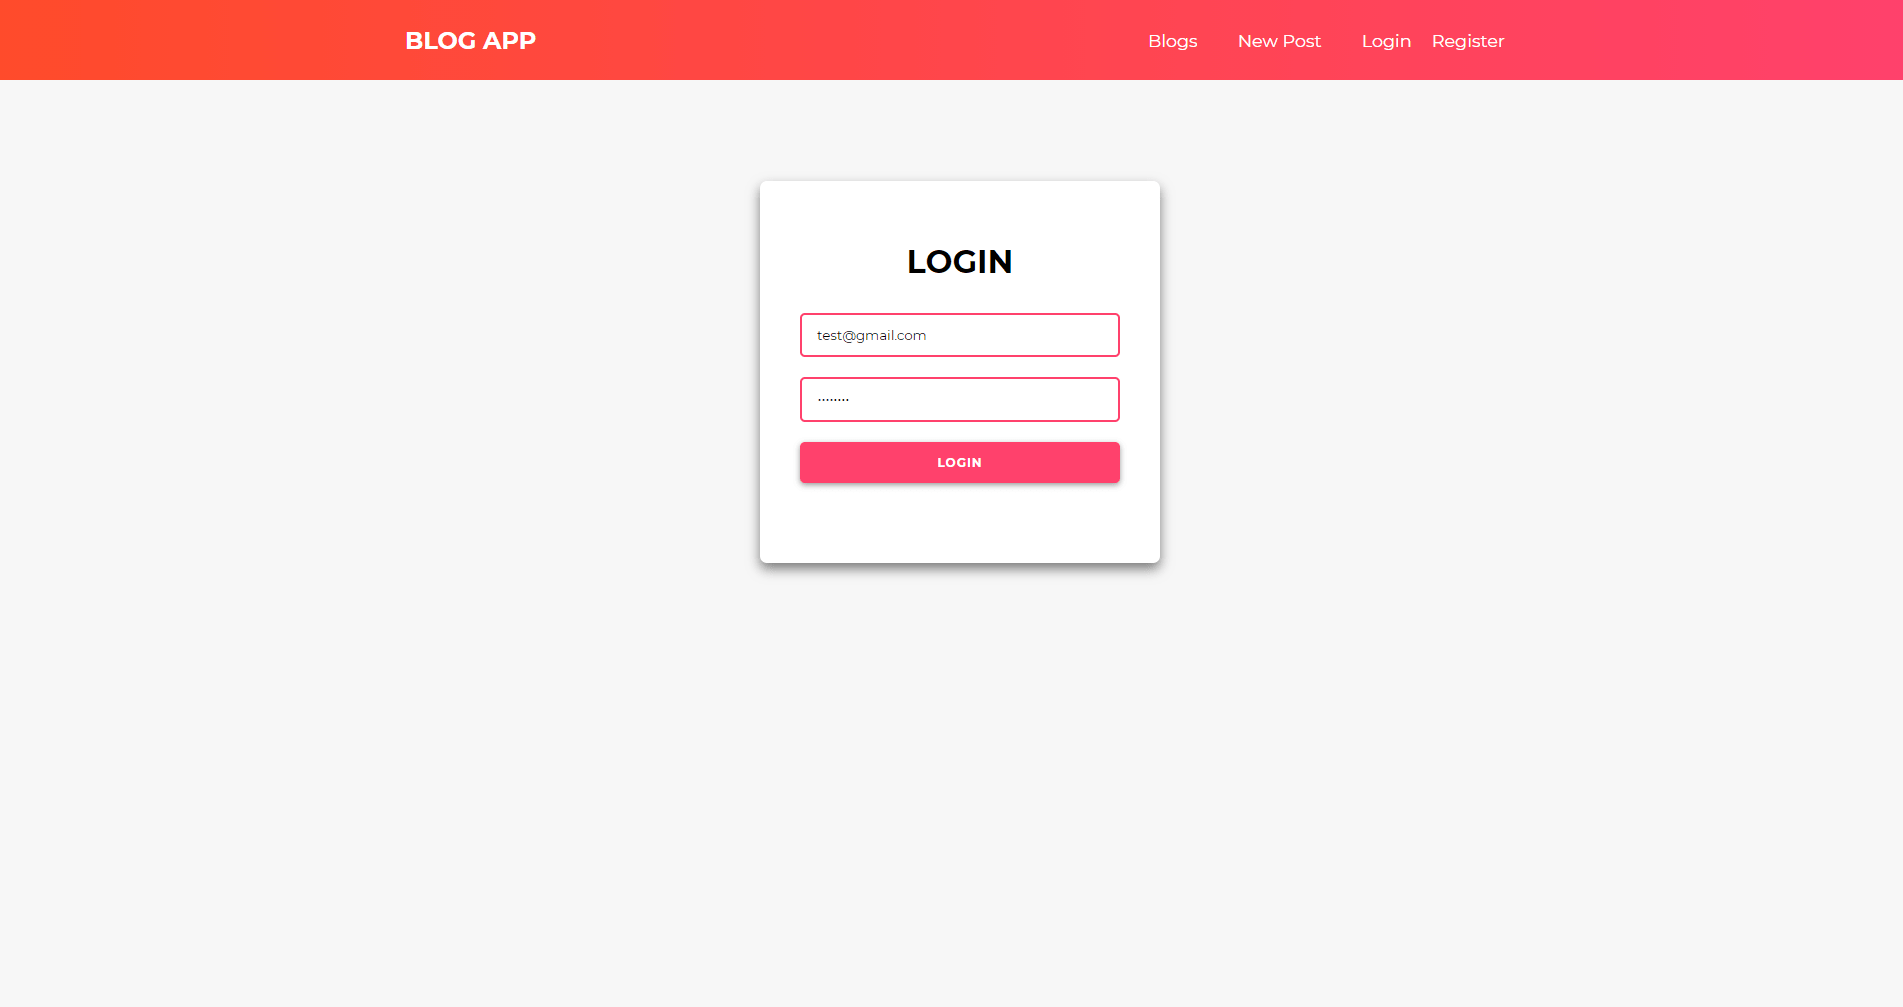
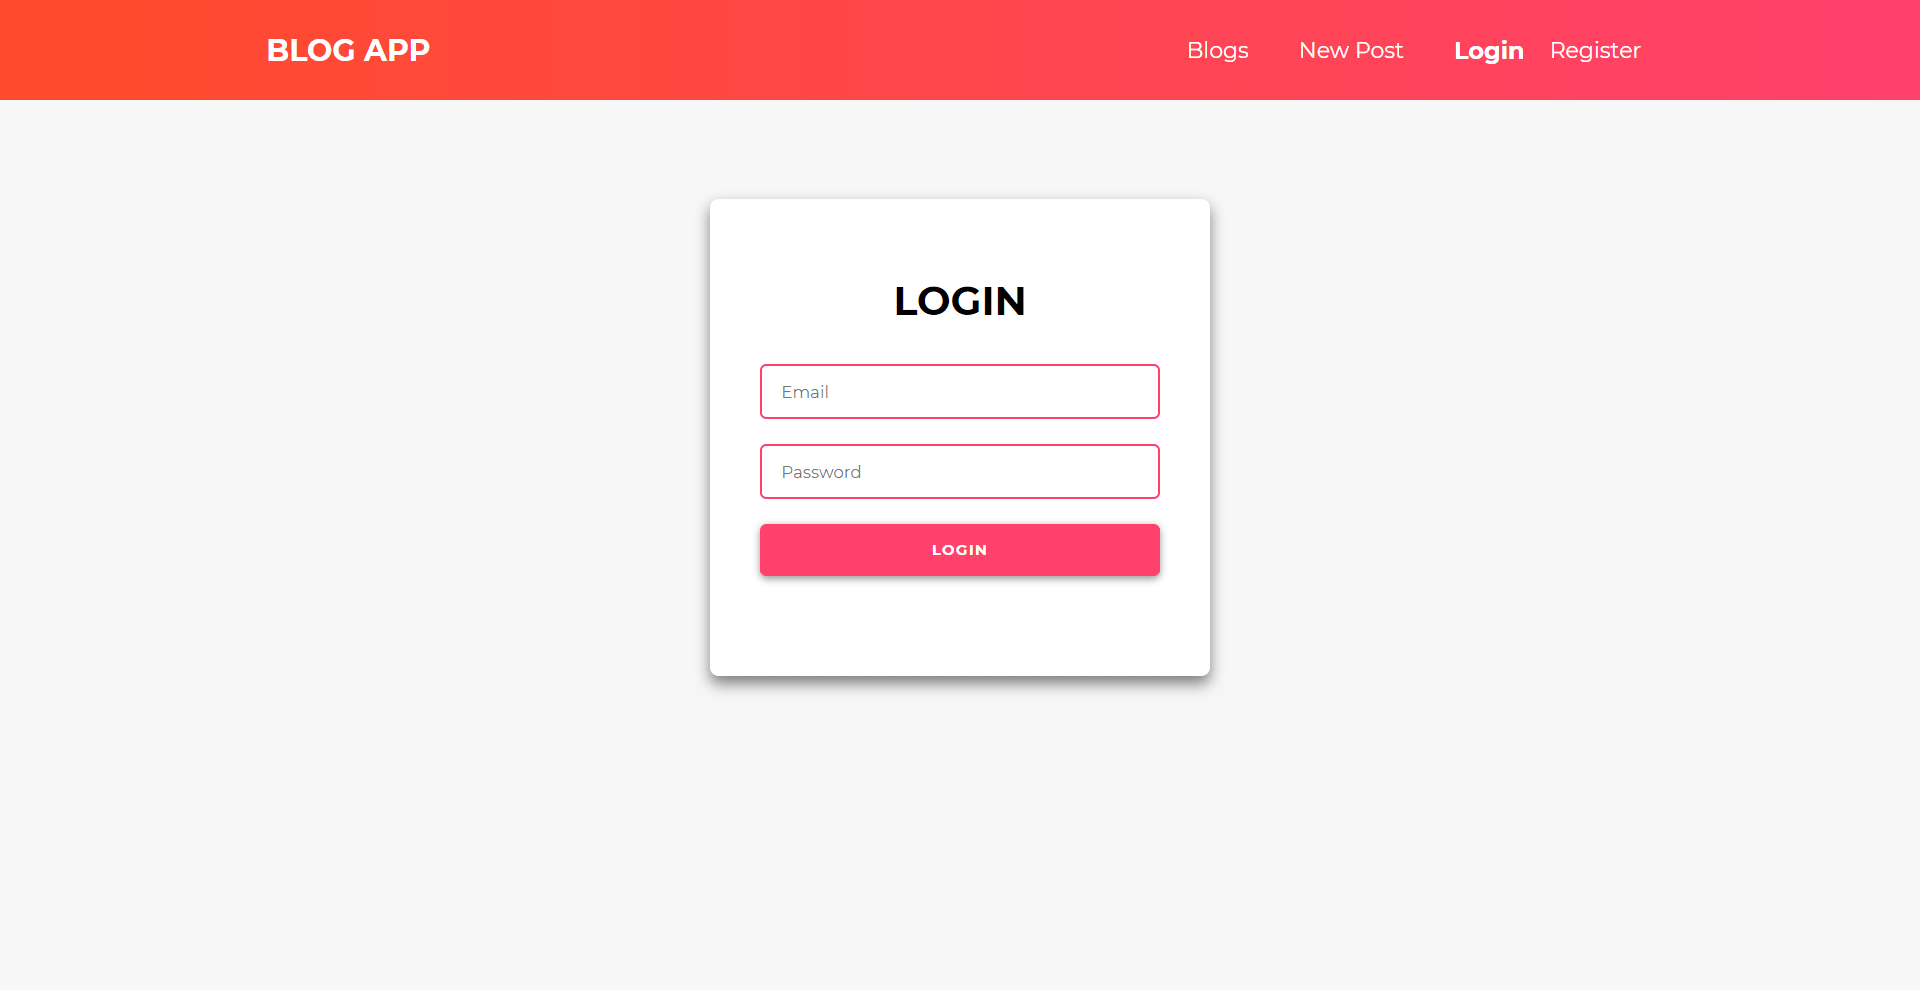
add imageUrl field and responsive navbar close

Changed region(s): [[0.341, 0.2121, 0.6511, 0.697], [0.0, 0.0303, 1.0, 0.1212]]

diff --git a/src/components/NavbarItems.jsx b/src/components/NavbarItems.jsx
@@ -1,17 +1,21 @@
 import React from "react";
-import { Link } from "react-router-dom";
+import { NavLink } from "react-router-dom";
 import styled from "styled-components";
 import Button from "./styled/Button";
 
 const Item = styled.li``;
 
-const NavLink = styled(Link)`
+const NavBarLink = styled(NavLink)`
   text-decoration: none;
   color: white;
   padding: 0 10px 0 10px;
   font-size: 1.1em;
   transition: 0.1s ease;
   &:hover {
+    font-weight: bold;
+    font-size: 1.2em;
+  }
+  &.${(props) => props.activeClassName} {
     font-weight: bold;
     font-size: 1.2em;
   }
@@ -23,14 +27,27 @@ const Centered = styled.div`
   align-content: ${(props) => !props.isOverlay && "space-space-around"};
 `;
 
-const NavbarItems = ({ onClick, user, isOverlay = false }) => {
+const NavbarItems = ({ onClick, user, isOverlay = false, toggleNav }) => {
   return (
     <>
       <Item>
-        <NavLink to="/">Blogs</NavLink>
+        <NavBarLink
+          onClick={() => toggleNav(false)}
+          activeClassName="active"
+          to="/"
+          exact={true}
+        >
+          Blogs
+        </NavBarLink>
       </Item>
       <Item>
-        <NavLink to="/new-post">New Post</NavLink>
+        <NavBarLink
+          onClick={() => toggleNav(false)}
+          activeClassName="active"
+          to="/new-post"
+        >
+          New Post
+        </NavBarLink>
       </Item>
       {user ? (
         <Centered isOverlay={isOverlay}>
@@ -53,10 +70,22 @@ const NavbarItems = ({ onClick, user, isOverlay = false }) => {
       ) : (
         <>
           <Item>
-            <NavLink to="/login">Login</NavLink>
+            <NavBarLink
+              onClick={() => toggleNav(false)}
+              activeClassName="active"
+              to="/login"
+            >
+              Login
+            </NavBarLink>
           </Item>
           <Item>
-            <NavLink to="/register">Register</NavLink>
+            <NavBarLink
+              onClick={() => toggleNav(false)}
+              activeClassName="active"
+              to="/register"
+            >
+              Register
+            </NavBarLink>
           </Item>
         </>
       )}

diff --git a/src/pages/EditPage.jsx b/src/pages/EditPage.jsx
@@ -6,11 +6,11 @@ import { useHistory, useParams } from "react-router";
 import styled from "styled-components";
 import ErrorText from "../components/styled/ErrorText";
 import Button from "../components/styled/Button";
-import Input from "../components/styled/Input";
 import TextArea from "../components/styled/TextArea";
 import { PostSchema } from "../schemas/postSchema";
 import { getPost, updatePost } from "../store/slices/postSlice";
 import showNotification from "../utils/notification";
+import InputGroup from "../components/InputGroup";
 
 const BlogContainer = styled.div`
   margin-top: 15px;
@@ -48,7 +48,7 @@ const EditPostPage = () => {
 
   const onSubmit = (val) => {
     const isSuccess = dispatch(updatePost({ data: val, id: param.id }));
-    if (isSuccess) setTimeout(() => history.push("/"), 100);
+    if (isSuccess) setTimeout(() => history.push("/"), 500);
   };
 
   useEffect(() => {
@@ -66,6 +66,7 @@ const EditPostPage = () => {
     if (post) {
       setValue("title", post.title.toUpperCase());
       setValue("content", post.content);
+      setValue("imageUrl", post.imageUrl || "");
     }
   }, [post, setValue]);
 
@@ -80,9 +81,18 @@ const EditPostPage = () => {
       <BlogContainer>
         <h1>Edit Post</h1>
         <form onSubmit={handleSubmit(onSubmit)}>
-          <label>Title</label>
-          <Input {...register("title")} autofocus />
-          <ErrorText error={errors["title"]} />
+          <InputGroup
+            register={register}
+            errors={errors}
+            name="title"
+            label="Title"
+          />
+          <InputGroup
+            register={register}
+            errors={errors}
+            name="imageUrl"
+            label="Image URL"
+          />
           <label>Content</label>
           <TextArea {...register("content")} rows="10"></TextArea>
           <ErrorText error={errors["content"]} />

diff --git a/src/pages/NewPostPage.jsx b/src/pages/NewPostPage.jsx
@@ -6,11 +6,11 @@ import { useHistory } from "react-router";
 import styled from "styled-components";
 import ErrorText from "../components/styled/ErrorText";
 import Button from "../components/styled/Button";
-import Input from "../components/styled/Input";
 import TextArea from "../components/styled/TextArea";
 import { PostSchema } from "../schemas/postSchema";
 import { insertPost } from "../store/slices/postSlice";
 import showNotification from "../utils/notification";
+import InputGroup from "../components/InputGroup";
 
 const BlogContainer = styled.div`
   margin-top: 15px;
@@ -43,7 +43,7 @@ const NewPostPage = () => {
 
   const onSubmit = (val) => {
     const isSuccess = dispatch(insertPost(val));
-    if (isSuccess) setTimeout(() => history.push("/"), 100);
+    if (isSuccess) setTimeout(() => history.push("/"), 500);
   };
 
   useEffect(() => {
@@ -64,9 +64,18 @@ const NewPostPage = () => {
       <BlogContainer>
         <h1>New Post</h1>
         <form onSubmit={handleSubmit(onSubmit)}>
-          <label>Title</label>
-          <Input {...register("title")} autofocus />
-          <ErrorText error={errors["title"]} />
+          <InputGroup
+            register={register}
+            errors={errors}
+            name="title"
+            label="Title"
+          />
+          <InputGroup
+            register={register}
+            errors={errors}
+            name="imageUrl"
+            label="Image URL"
+          />
           <label>Content</label>
           <TextArea {...register("content")} rows="10"></TextArea>
           <ErrorText error={errors["content"]} />

diff --git a/src/pages/BlogPage.jsx b/src/pages/BlogPage.jsx
@@ -7,6 +7,9 @@ import Spinner from "../components/Spinners";
 import Button from "../components/styled/Button";
 import { deletePost, getPost } from "../store/slices/postSlice";
 
+const DEFAULT_IMG =
+  "https://c4.wallpaperflare.com/wallpaper/826/524/865/3-316-16-9-aspect-ratio-s-sfw-wallpaper-preview.jpg";
+
 const BlogContainer = styled.div`
   margin-top: 15px;
   border-radius: 7px;
@@ -31,7 +34,7 @@ const BlogPage = () => {
   const handleDelete = () => {
     console.log(param.id);
     const isSuccess = dispatch(deletePost(param.id));
-    if (isSuccess) setTimeout(() => history.push("/"), 100);
+    if (isSuccess) setTimeout(() => history.push("/"), 500);
   };
 
   return (
@@ -62,8 +65,11 @@ const BlogPage = () => {
               </>
             )}
             <img
-              src="https://c4.wallpaperflare.com/wallpaper/826/524/865/3-316-16-9-aspect-ratio-s-sfw-wallpaper-preview.jpg"
+              src={post.imageUrl || ""}
               alt="Loading...."
+              onError={(e) => {
+                e.target.src = DEFAULT_IMG;
+              }}
               style={{ width: "100%", marginTop: "10px" }}
             />
             <p>{post.content}</p>

diff --git a/src/components/Navbar.jsx b/src/components/Navbar.jsx
@@ -116,7 +116,7 @@ const NavBar = () => {
             <h2>Blog App</h2>
           </NavBrand>
           <Menu>
-            <NavbarItems user={user} onClick={onClick} />
+            <NavbarItems user={user} onClick={onClick} toggleNav={toggleNav} />
           </Menu>
           <NavIcon onClick={() => toggleNav(!toggle)}>
             <Line open={toggle} />
@@ -127,7 +127,12 @@ const NavBar = () => {
       </Nav>
       <Overlay open={toggle}>
         <OverlayMenu open={toggle}>
-          <NavbarItems user={user} onClick={onClick} isOverlay={true} />
+          <NavbarItems
+            user={user}
+            onClick={onClick}
+            toggleNav={toggleNav}
+            isOverlay={true}
+          />
         </OverlayMenu>
       </Overlay>
     </>

diff --git a/src/components/InputGroup.jsx b/src/components/InputGroup.jsx
@@ -1,0 +1,15 @@
+import React from "react";
+import ErrorText from "./styled/ErrorText";
+import Input from "./styled/Input";
+
+const InputGroup = ({ register, errors, label, name }) => {
+  return (
+    <>
+      <label>{label}</label>
+      <Input {...register(name)} autofocus />
+      <ErrorText error={errors[name]} />
+    </>
+  );
+};
+
+export default InputGroup;

diff --git a/src/components/BlogComponent.jsx b/src/components/BlogComponent.jsx
@@ -17,7 +17,7 @@ const BlogComponent = ({ el }) => {
           }}
         >
           <img
-            src="https://static-cse.canva.com/blob/140259/ComposeStunningImags7.jpg"
+            src={el.imageUrl || ""}
             alt="Loading...."
             onError={(e) => {
               e.target.src = DEFAULT_IMG;

diff --git a/src/schemas/postSchema.js b/src/schemas/postSchema.js
@@ -2,6 +2,7 @@ import * as yup from "yup";
 
 const PostSchema = yup.object().shape({
   title: yup.string().required("Please enter the title"),
+  imageUrl: yup.string().trim().required("Please enter the image url"),
   content: yup.string().trim().required("Content cannot be blank"),
 });
 

diff --git a/README.md b/README.md
@@ -36,4 +36,3 @@ Edit Post Page
 - This is written in <b>REACT</b>.
 - State Management used is <b>REDUX</b> and <b>Redux Toolkit</b>.
 - The backend used is [Blog API](https://github.com/Abhi-codr/blog-app-api).
-- I have to implement image upload.
